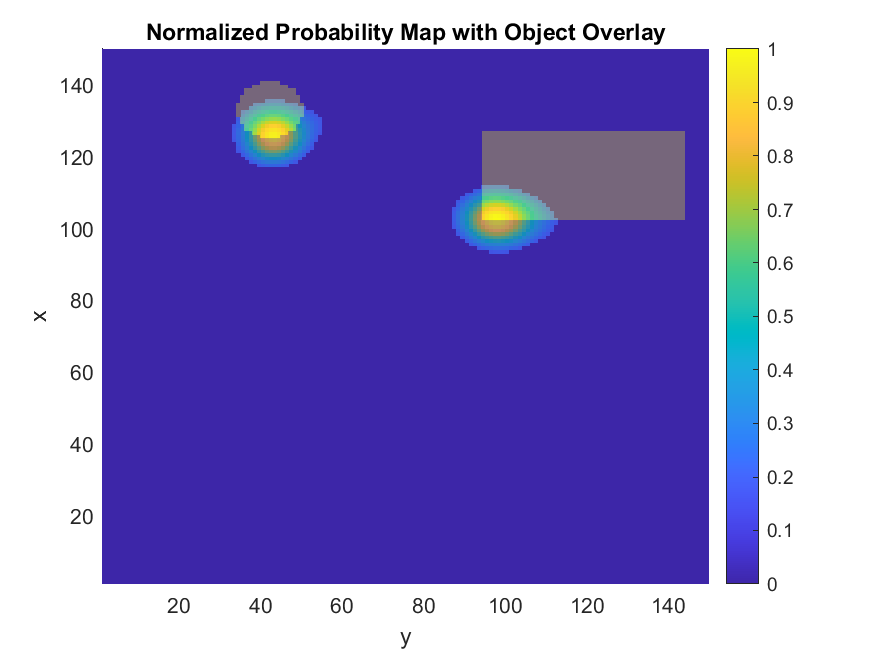
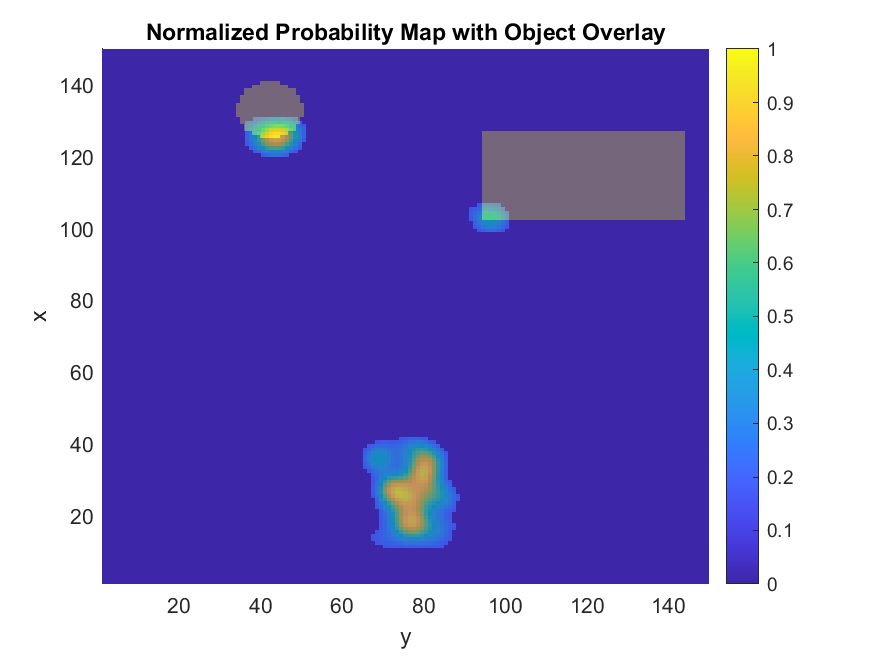
Modifications to beging AWGN tests

Changed region(s): [[0.4011, 0.6402, 0.5246, 0.8537], [0.4937, 0.2744, 0.648, 0.3963], [0.2469, 0.1524, 0.3703, 0.2744]]

diff --git a/a_simulation_routine.m b/a_simulation_routine.m
@@ -27,7 +27,7 @@ addpath("functions\")
 % =========================================================================
 % Simulation control
 % =========================================================================
-num_sensors = 26;
+num_sensors = 11;
 sensor_type = 1;
     % 1 = disc receiver
     % 2 = line receiver
@@ -36,7 +36,7 @@ emitter_type = 1;
     % 1 = point
     % 2 = flat
 
-image_number = 2;
+image_number = 1;
 simulation_time = 280e-6; % [s]
 
 simulation = Simulation(sensor_type, emitter_type, num_sensors, ...
@@ -125,11 +125,18 @@ simulation.run_simulation();
 
 
 % =========================================================================
-% Visualisation
+% Process the resulting data
 % =========================================================================
 end_of_click = 110e-6;
 simulation.remove_emitter_signal(end_of_click);
 simulation.normalize_data();
+% snr = 0;
+% simulation.awgn_to_measurements(snr);
+
+
+% =========================================================================
+% Visualisation
+% =========================================================================
 simulation.visualize_results();
 simulation.save_recording_image();
 

diff --git a/c_gen_result_routine.m b/c_gen_result_routine.m
@@ -29,8 +29,8 @@ load('g.mat', 'g');
 % =========================================================================
 % Generate result
 % =========================================================================
-sigma = 5;         % Controls "spread" of influence 
-threshold = 0.2;   % Filter everything below this value
+sigma = 3;         % Controls "spread" of influence 
+threshold = 0.0;   % Filter everything below this value
 plot = 1;          % Boolean, plot or not
 [fig, map] = gen_result_map(simulation, g, sigma, threshold, plot);
 simulation.set_result_map(map);

diff --git a/Simulation.m b/Simulation.m
@@ -249,6 +249,11 @@ classdef Simulation < handle
         function set_result_map(obj, result_map)
             obj.result_map = result_map;
         end
+
+        %% Add a awgn %%
+        function awgn_to_measurements(obj, snr)
+            obj.sensor_data = awgn(obj.sensor_data, snr, 'measured');
+        end
     end
 end
 
